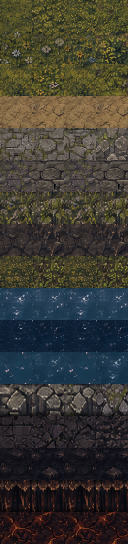
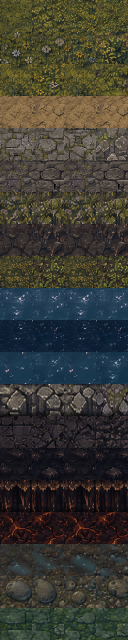
Map mechanics: A2 water level (temple wheel drains Mirror Lake into riverbed tiles from the owner's art, drowned chest + stair lore, water props); tourOpen hook for mapTour

diff --git a/src/world/mechanics/waterLevel.js b/src/world/mechanics/waterLevel.js
@@ -1,0 +1,114 @@
+// WATER LEVEL (A2 Ancient Valley) — "the valley's water obeys the old temple". A LEVER (the temple wheel, far from the water)
+// drains a BASIN (every wet tile inside a tile box): the shallows dry first, then the river, then the deep middle, turning
+// into mud, riverbed stones and sunken paving (tile types MUD / RIVERBED / SUNKEN, walkable — the owner's riverbed art).
+// What the water hid shows up: props lying on the lakebed (`finds`), a drowned chest (once per save) and the drowned stair
+// (a lore tablet). The sluice gate prop swaps closed / open. The water comes home when you leave the map (once per visit /
+// dungeon run: pull the wheel again next time); nobody can be caught by rising water inside the map.
+// ONLINE: the room host owns `drained` (netState); a guest's pull = send('pull'); guests drain their own copy of the tiles.
+//   options: { basin: [x0, y0, x1, y1], lever: [tx, ty], sluice: { at, scale }, finds: [{ prop, at, scale }],
+//              chest: { id, at, loot, gold }, stair: { at, lore }, drainTime, sign }
+import { registerMapMechanic, MapMechanic } from '../mapMechanics.js';
+import { TILE, T } from '../../core/constants.js';
+import { TAU, rand } from '../../core/math.js';
+import { Assets } from '../../core/assets.js';
+import { interact } from '../../exploration/interactables.js';
+
+const DRY = { [T.SHALLOW]: [T.MUD, 0], [T.WATER]: [T.RIVERBED, 1], [T.DEEP_WATER]: [T.SUNKEN, 2] }; // tile -> [dry tile, wave]
+
+export class WaterLevel extends MapMechanic {
+  enter() {
+    const o = this.o = { drainTime: 3, ...this.def }, w = this.world, m = w.map;
+    const [x0, y0, x1, y1] = o.basin;
+    this.cells = [];
+    for (let y = y0; y <= y1; y++) for (let x = x0; x <= x1; x++) {
+      const i = m.idx(x, y), d = DRY[m.tiles[i]];
+      if (d && w.mapManager.idAt((x + 0.5) * TILE, (y + 0.5) * TILE) === this.mapId) this.cells.push({ i, wet: m.tiles[i], dry: d[0], wave: d[1], done: false });
+    }
+    this.drained = false; this.t = 0;
+    const at = (p) => ({ x: (p[0] + 0.5) * TILE, y: (p[1] + 0.5) * TILE });
+    this.lever = { ...at(o.lever) };
+    this.items = [];
+    const add = (it) => { it.kind = 'mech'; it.mapId = this.mapId; this.items.push(it); w.interactables.push(it); return it; };
+    add({ id: 'water_lever', ...this.lever, radius: 44, prompt: 'Turn the Temple Wheel', available: () => !this.drained, use: () => this.send('pull'),
+      draw: (ctx) => this.sprite(ctx, this.drained ? 'w_lever_on' : 'w_lever_off', this.lever.x, this.lever.y, 0.55) });
+    if (o.sluice) { const s = at(o.sluice.at); add({ id: 'water_sluice', ...s, radius: 0, available: () => false, draw: (ctx) => this.sprite(ctx, this.drained ? 'w_sluice_open' : 'w_sluice_closed', s.x, s.y, o.sluice.scale || 0.6) }); }
+    if (o.chest) {
+      const c = at(o.chest.at), chest = { id: o.chest.id, kind: 'chest', ...c, radius: 34, rare: true, loot: o.chest.loot, gold: o.chest.gold };
+      add({ id: 'water_chest', ...c, radius: 38, prompt: 'Open Drowned Chest', available: () => this.drained && !w.state.chests[chest.id], use: () => interact(w, chest),
+        draw: (ctx) => { if (this.drained) this.sprite(ctx, w.state.chests[chest.id] ? 'w_chest_open' : 'w_chest_closed', c.x, c.y + 6, 0.32); } });
+    }
+    if (o.stair) {
+      const s = at(o.stair.at), tab = { kind: 'lore', lore: o.stair.lore };
+      add({ id: 'water_stair', ...s, radius: 46, prompt: 'Read the Bronze Plate', available: () => this.drained, use: () => interact(w, tab),
+        draw: (ctx) => { if (this.drained) this.sprite(ctx, 'w_temple_stairs', s.x, s.y + 30, 0.42); } });
+    }
+    this.finds = (o.finds || []).map((f) => ({ ...f, ...at(f.at) }));
+    if (!this.saved.told) this.tipT = 3;
+  }
+  exit() {
+    this.refill();
+    const mine = new Set(this.items);
+    this.world.interactables = this.world.interactables.filter((it) => !mine.has(it));
+  }
+  // checkpoint: the valley is as it was when you came in (respawn on another map rebuilds us anyway)
+  reset() { }
+
+  setTile(c, dry) {
+    const m = this.world.map;
+    m.tiles[c.i] = dry ? c.dry : c.wet;
+    c.done = dry;
+  }
+  refill() { let any = false; for (const c of this.cells) if (c.done) { this.setTile(c, false); any = true; } if (any) this.world.map.invalidate(); this.drained = false; }
+
+  tourOpen() { this.drained = true; this.t = this.o.drainTime; for (const c of this.cells) this.setTile(c, true); this.world.map.invalidate(); }
+  netEvent(kind) {
+    if (kind !== 'pull' || this.drained) return;
+    this.startDrain();
+    this.markNet();
+  }
+  startDrain() {
+    if (this.drained) return;
+    this.drained = true; this.t = 0;
+    const g = this.game;
+    g.ui.banner('THE WHEEL TURNS', 'Far to the south, water roars through an old sluice', '#9ad8ff');
+    g.audio.sfx('gate', this.lever);
+    g.camera.shake && g.camera.shake(4, 0.6);
+  }
+  update(dt) {
+    if (this.tipT > 0 && (this.tipT -= dt) <= 0) this.saved.told = true;
+    if (!this.drained) return;
+    this.t += dt;
+    const per = this.o.drainTime / 3;
+    let changed = false;
+    for (const c of this.cells) {
+      if (c.done || this.t < c.wave * per + per * 0.5 * ((c.i * 7919) % 97) / 97) continue;
+      this.setTile(c, true); changed = true;
+      if (Math.random() < 0.08) this.game.vfx.particle((c.i % this.world.map.w + 0.5) * TILE, ((c.i / this.world.map.w | 0) + 0.5) * TILE, { color: '#bfe8ff', vy: -20, life: 0.6, size: 2, add: true });
+    }
+    if (changed) this.world.map.invalidate();
+  }
+
+  // ---- online
+  netState() { return { d: this.drained ? 1 : 0 }; }
+  netApply(s) { if (s.d && !this.drained) this.startDrain(); }
+
+  // ---- drawing
+  sprite(ctx, name, x, y, scale, alpha = 1) {
+    const d = Assets.props[name];
+    if (!d) { ctx.fillStyle = '#556'; ctx.fillRect(x - 8, y - 16, 16, 16); return; }
+    const w = d.w * scale, h = d.h * scale;
+    ctx.globalAlpha = alpha;
+    ctx.drawImage(d.img, d.x, d.y, d.w, d.h, Math.round(x - w / 2), Math.round(y - h), Math.round(w), Math.round(h));
+    ctx.globalAlpha = 1;
+  }
+  drawGround(ctx, t) {
+    if (!this.drained) return;
+    const k = Math.min(1, this.t / this.o.drainTime);
+    for (const f of this.finds) this.sprite(ctx, f.prop, f.x, f.y, f.scale || 0.35, k);
+  }
+  hudTags() {
+    if (!this.drained) return [];
+    return [{ label: this.t < this.o.drainTime ? '≈ The lake is draining…' : '≈ The lake bed lies open', color: '#9ad8ff' }];
+  }
+}
+registerMapMechanic('water_level', WaterLevel);

diff --git a/tools/testkit.js b/tools/testkit.js
@@ -333,8 +333,7 @@ export function mapTour(g, classId = 'umbral_sword') {
   const unreachable = [];
   for (const def of mm.list) {
     w.changeMap(def.id, { silent: true });
-    const vaults = w.mapMech.get('rune_vaults'); // map-mechanic doors count as open here (like the flag-sealed exits)
-    if (vaults) for (const v of vaults.vaults) vaults.seal(v, false);
+    for (const mech of w.mapMech.list) mech.tourOpen(); // map-mechanic doors / water count as open here (like the flag-sealed exits)
     const m = w.map, seen = new Uint8Array(m.w * m.h), sp = m.findOpen(def.spawn[0] * TILE, def.spawn[1] * TILE, 4);
     const q = [[Math.floor(sp.x / TILE), Math.floor(sp.y / TILE)]];
     seen[q[0][1] * m.w + q[0][0]] = 1;
@@ -2359,6 +2358,52 @@ export async function darknessCheck(g, classId = 'umbral_sword') {
   ok('save / load: chamber stays solved, chest stays opened', dk && dk.solved.mine && w.state.chests.chest_hoard_mine && w.interactables.some((i) => i.id === 'chest_hoard_mine'));
   w.changeMap('lumina', { entry: w.mapManager.get('lumina').spawn });
   ok('another map: crystals + hoard chest gone', !w.interactables.some((i) => i.kind === 'mech' || i.id.startsWith('chest_hoard')));
+  const pass = R.every((r) => r[1]);
+  console.table(R.map(([step, p2, d]) => ({ step, pass: p2 ? 'PASS' : 'FAIL', detail: String(d).slice(0, 80) })));
+  return { pass, R };
+}
+
+// A2 WATER LEVEL (world/mechanics/waterLevel.js): the temple wheel drains Mirror Lake + the lower river into walkable
+// riverbed in 3 waves, the lakebed (drowned chest, drowned stair lore) becomes reachable, the water comes back on leaving,
+// nothing outside the basin / the bridge changes.
+export async function waterCheck(g, classId = 'umbral_sword') {
+  const R = [], ok = (step, pass, detail = '') => R.push([step, !!pass, detail]);
+  const { interact } = await import('../src/exploration/interactables.js');
+  const { T: TT } = await import('../src/core/constants.js');
+  g.newGame(classId);
+  const w = g.world, p = g.player;
+  p.god = true; releaseInput(g);
+  w.changeMap('a2', { entry: w.mapManager.get('a2').spawn });
+  for (const m of w.monsters) m.removed = true;
+  w.monsters = []; for (const sp of w.spawnPoints) sp.active = false;
+  const wl = w.mapMech.get('water_level'), m = w.map;
+  const open = (tx, ty) => { const x = (tx + 0.5) * TILE, y = (ty + 0.5) * TILE; return !m.isSolidAt(x, y) && w.mapManager.idAt(x, y) === 'a2'; };
+  const reach = () => { const sp = w.mapManager.get('a2').spawn.map(Math.floor), seen = new Set([sp.join()]), todo = [sp]; while (todo.length) { const [x, y] = todo.pop(); for (const [dx, dy] of [[1, 0], [-1, 0], [0, 1], [0, -1]]) { const k = `${x + dx},${y + dy}`; if (!seen.has(k) && open(x + dx, y + dy)) { seen.add(k); todo.push([x + dx, y + dy]); } } } return seen; };
+  const bridge = m.tiles.reduce((n, t) => n + (t === TT.BRIDGE ? 1 : 0), 0);
+  let s = reach();
+  ok('A2 water level: lever reachable, lakebed (chest / stair) not', wl && s.has('38,101') && !s.has('31,167') && !s.has('25,170'));
+  ok('basin = the lake + the lower river west of the bridge (300+ wet tiles)', wl.cells.length > 300, wl.cells.length);
+  const lever = w.interactables.find((i) => i.id === 'water_lever');
+  p.x = lever.x; p.y = lever.y + 20; g.simulate(0.1);
+  ok('the wheel is the nearest interactable', w.nearest === lever && /Wheel/.test(lever.promptText));
+  interact(w, lever); g.simulate(1.2);
+  const mid = wl.cells.filter((c) => c.done);
+  ok('draining in waves: shallows first, deep water last', mid.length > 0 && mid.length < wl.cells.length && !mid.some((c) => c.wave === 2), `${mid.length}/${wl.cells.length}`);
+  g.simulate(3);
+  s = reach();
+  ok('drained: mud / riverbed / sunken paving, lakebed reachable on foot', wl.cells.every((c) => c.done) && s.has('31,167') && s.has('25,170'));
+  ok('bridge untouched', m.tiles.reduce((n, t) => n + (t === TT.BRIDGE ? 1 : 0), 0) === bridge);
+  ok('lever used: no second pull', !w.interactables.find((i) => i.id === 'water_lever' && i.available()));
+  const chestIt = w.interactables.find((i) => i.id === 'water_chest'), gold = p.gold;
+  p.x = chestIt.x; p.y = chestIt.y + 18; g.simulate(0.1); interact(w, chestIt);
+  ok('drowned chest pays (once)', p.gold >= gold + 400 && w.state.chests.chest_mirror_lake && !chestIt.available(), `${gold} -> ${p.gold}`);
+  const stair = w.interactables.find((i) => i.id === 'water_stair'); interact(w, stair); g.ui.panels.close(true); // an open window pauses the world
+  ok('drowned stair = lore found', w.state.lore.drowned_hall);
+  w.changeMap('lumina', { entry: w.mapManager.get('lumina').spawn });
+  w.changeMap('a2', { entry: w.mapManager.get('a2').spawn });
+  const wl2 = w.mapMech.get('water_level');
+  ok('leave + come back: the lake is full again, chest stays opened', !wl2.drained && wl2.cells.every((c) => !c.done && m.tiles[c.i] === c.wet) && !reach().has('31,167') && w.state.chests.chest_mirror_lake);
+  ok('online: netState / netApply drain a guest copy', JSON.stringify(wl2.netState()) === '{"d":0}' && (wl2.netApply({ d: 1 }), g.simulate(4), wl2.cells.every((c) => c.done)));
   const pass = R.every((r) => r[1]);
   console.table(R.map(([step, p2, d]) => ({ step, pass: p2 ? 'PASS' : 'FAIL', detail: String(d).slice(0, 80) })));
   return { pass, R };

diff --git a/tools/extract-props.js b/tools/extract-props.js
@@ -22,15 +22,27 @@ const B1P = '../B/B1/image-53b4c9a1-506f-42b5-904f-7281d8bc5b1f-0';
 const B2P = '../B/B2/image-b4a161fc-56d2-45fc-9b60-7300aa39c577-0';
 const B3P = '../B/B3/image-e8e42a4f-cf0e-4610-8207-6e224b047dca-0';
 const DRP = '../A/a2/SC/DRAGON/image-1e3f0fef-1571-4868-b296-d7673ea2e55d-0'; // A2 secret lair (Varkharon): near-black sheet
-const SCALE = { [DRP]: 0.5, [A2P]: 0.5, [A3P]: 0.5, [B1P]: 0.5, [B2P]: 0.5, [B3P]: 0.5 }; // the city sheet (CP) stays full size: its buildings are drawn large
+// A2 water-level art (world/mechanics/waterLevel.js): props of the drained river (1254 px sheet) + the waterfall in 3 states (1024 px)
+const WP = '../A/a2/water/image-fb49acbd-d88c-4dc3-a28d-d133e8bc77e3-0';
+const WF = '../A/a2/water/image-d226c3dd-a2f5-45df-83a3-59d131251238-0';
+const SCALE = { [WP]: 0.8, [WF]: 0.62, [DRP]: 0.5, [A2P]: 0.5, [A3P]: 0.5, [B1P]: 0.5, [B2P]: 0.5, [B3P]: 0.5 }; // the city sheet (CP) stays full size: its buildings are drawn large
 // sheets whose background is not the navy of the old sets: their own background test. `fillHoles` = box mode keeps
 // background-coloured pixels enclosed by the prop (dark grey stone inside the city buildings)
 const GREY_BG = (r, g, b) => { const l = (r + g + b) / 3; return l >= 24 && l <= 58 && Math.max(r, g, b) - Math.min(r, g, b) <= 8; };
 const NAVY_DEEP = (r, g, b) => r <= 20 && g >= 20 && g <= 42 && b >= 46 && b <= 66 && b - g >= 14;
 const NEAR_BLACK = (r, g, b) => Math.max(r, g, b) <= 15 && b >= r;
-const SHEET_BG = { [CP]: GREY_BG, [B3P]: NAVY_DEEP, [DRP]: NEAR_BLACK };
-const FILL_HOLES = new Set([CP, DRP]);
+const WATER_NAVY = (r, g, b) => r <= 26 && g >= 12 && g <= 38 && b >= 36 && b <= 62 && b - g >= 18; // A2 water sheets (6,20,45 / 16,27,51)
+const SHEET_BG = { [CP]: GREY_BG, [B3P]: NAVY_DEEP, [DRP]: NEAR_BLACK, [WP]: WATER_NAVY, [WF]: WATER_NAVY };
+const FILL_HOLES = new Set([CP, DRP, WP, WF]);
 const MANIFEST = {
+  w_sluice_closed: [WP, 30, 40, 450, 362], w_sluice_open: [WP, 470, 40, 872, 362],
+  w_lever_off: [WP, 895, 112, 1032, 352], w_lever_on: [WP, 1072, 112, 1212, 352],
+  w_statue_a: [WP, 30, 408, 462, 592], w_statue_b: [WP, 502, 408, 832, 588], w_statue_c: [WP, 858, 408, 1232, 592],
+  w_chest_closed: [WP, 42, 618, 348, 802], w_chest_open: [WP, 376, 618, 642, 802],
+  w_fish_a: [WP, 736, 652, 928, 728], w_driftwood: [WP, 972, 628, 1218, 732], w_fish_b: [WP, 736, 772, 922, 862], w_reeds: [WP, 1006, 762, 1204, 908],
+  w_temple_stairs: [WP, 38, 838, 612, 1208],
+  w_shells_a: [WP, 638, 992, 802, 1098], w_shells_b: [WP, 832, 988, 992, 1098], w_shells_c: [WP, 1036, 988, 1184, 1098],
+  w_fall_full: [WF, 22, 150, 342, 872], w_fall_thin: [WF, 356, 150, 668, 872], w_fall_dry: [WF, 682, 150, 994, 872],
   // ---- A2 secret lair: the Cinder Throne (Varkharon). Boxes in the sheet's pixels; 'dr_*'
   dr_door: [DRP, 1128, 0, 1952, 628],
   dr_fence_post: [DRP, 30, 985, 95, 1100], dr_wall_a: [DRP, 118, 980, 300, 1100], dr_wall_spiked: [DRP, 325, 995, 615, 1110], dr_fence_iron: [DRP, 645, 985, 820, 1110],

diff --git a/src/maps/fieldA2.js b/src/maps/fieldA2.js
@@ -30,9 +30,23 @@ export const FIELD_A2 = {
   requires: [{ type: 'boss_defeated', boss: 'boss_a1', label: 'Defeat the Guardian of the Forest (A1 Boss)' }],
   hiddenAreas: [],
   region: { zones: [Z.ANCIENT, Z.EMBER] }, // EMBER = the Quiet Hollow (ash lair, own zone tint + banner)
+  // WATER LEVEL (world/mechanics/waterLevel.js): the wheel in the Sunken Temple drains Mirror Lake + the river west of the
+  // south bridge (once per visit); the lakebed holds a drowned chest, the drowned stair (lore) and the things the lake kept
+  mechanics: [{
+    type: 'water_level', basin: [15, 158, 62, 180], lever: [38, 101], sluice: { at: [60, 174], scale: 0.6 },
+    chest: { id: 'chest_mirror_lake', at: [31, 167], loot: [{ item: 'relic_ember_war', count: 1 }, { item: 'hp_potion', count: 3 }], gold: 400 },
+    stair: { at: [25, 170], lore: 'drowned_hall' },
+    finds: [
+      { prop: 'w_statue_a', at: [44, 174], scale: 0.3 }, { prop: 'w_statue_c', at: [36, 164], scale: 0.28 },
+      { prop: 'w_fish_a', at: [30, 173] }, { prop: 'w_fish_b', at: [49, 173] }, { prop: 'w_driftwood', at: [53, 172] },
+      { prop: 'w_reeds', at: [24, 164] }, { prop: 'w_shells_a', at: [28, 172] }, { prop: 'w_shells_b', at: [39, 168] }, { prop: 'w_shells_c', at: [47, 171] },
+    ],
+  }],
   spawn: [84.5, 192],
   content: {
     interactables: [
+      { id: 'a2_lake_sign', kind: 'sign', tx: 42, ty: 161, prompt: 'Read Weathered Sign', title: 'Mirror Lake',
+        text: '"The priests\' Lower Hall lies under this water. They let the lake in from the temple above —\nand only the temple wheel can send it away again."' },
       { id: 'a2_gate_plaque', kind: 'sign', tx: 88, ty: 191, prompt: 'Read Plaque', title: 'Valley Gate', text: PLAQUE },
       { id: 'ws_a2_gate', kind: 'waystone', tx: 79, ty: 194, name: 'Valley Gate', prompt: 'Waystone' },
       // QUIET HOLLOW (secret lair): the rumour gargoyle + the sealed dragon door (generic `sealDoor`: item -> flag)

diff --git a/tools/build-tiles.js b/tools/build-tiles.js
@@ -22,6 +22,8 @@ const B3 = 'desgin/Map/B/B3/image-9f857ead-dee4-45da-90c6-536a066b2a3b-0';
 const B2 = 'desgin/Map/B/B2/image-76690731-d973-441f-ba7f-1b03cda9b3eb-0';
 const DRT = 'desgin/Map/A/a2/SC/DRAGON/image-097bd277-76c5-4f9d-af5e-906c6ea9c94d-0'; // A2 secret lair tileset (Varkharon)
 const B1 = 'desgin/Map/B/B1/image-4e5b0ee7-22d6-4f86-96e0-1b8e9df7ebb6-0';
+const DRY = 'desgin/Map/A/a2/water/image-dd5a659d-c838-4602-a2fe-532a18d37a0b-0'; // A2 drained riverbed tileset (4 cards / row)
+const DRY_ROW = (y0) => [177, 477, 776, 1076].map((cx) => [cx - 88, y0 + 4, cx + 88, y0 + 180]);
 
 // skin -> sheet + rows. Each row: [name, region [x0, y0, x1, y1] (sheet px), picks (card indices in reading order)]
 //   a pick may also be a card box [x0, y0, x1, y1] (sheets whose cards touch: no gap to find them by); region null then
@@ -50,6 +52,10 @@ const SKINS = {
       ['CAVE_WALL', null, [[184, 1280, 302, 1398], [184, 1422, 302, 1538], [184, 1280, 302, 1398], [184, 1422, 302, 1538]], { src: DRT }],
       ['face:cave', null, [[1652, 797, 1738, 846], [1540, 797, 1625, 846], [1652, 797, 1738, 846], [1540, 797, 1625, 846]], { src: DRT }],
       ['CORRUPT', null, [[320, 1280, 433, 1398], [320, 1422, 433, 1538], [320, 1280, 433, 1398], [320, 1422, 433, 1538]], { src: DRT }],
+      // the drained river (world/mechanics/waterLevel.js), owner's riverbed sheet: cards ~253 x 186, square boxes from the middle
+      ['MUD', null, DRY_ROW(22), { src: DRY }],
+      ['RIVERBED', null, DRY_ROW(435), { src: DRY }],
+      ['SUNKEN', null, DRY_ROW(1048), { src: DRY }],
     ],
   },
   // A3 RUNE CITADEL (owner's sheet desgin/Map/A/a3): dark stone + bronze gold, grid cards ~72 px

diff --git a/src/world/narrative.js b/src/world/narrative.js
@@ -20,6 +20,10 @@ export const LORE = {
     title: 'Statue Inscription — Ancient Forest Path',
     text: '"Here begins the Warden’s Road. Let none who carry darkness pass the Gate, for the Guardian remembers every blade."',
   },
+  drowned_hall: { // A2 Mirror Lake lakebed (world/mechanics/waterLevel.js), readable only while the lake is drained
+    title: 'Drowned Stair — The Lower Hall',
+    text: 'Steps cut into the lakebed fall away into a flooded hall. A bronze plate, green with age, still reads:\n\n"When the river rose, we closed the Hall and let the lake keep it. Whoever turns the temple wheel again: take what we left, and let the water come home."',
+  },
   cave_mural: {
     title: 'Cave Mural — The Warden’s Weakness',
     text: 'A mural of a great antlered beast. Its chest holds a crystal heart. In the next panel, the beast crashes into a stone wall and kneels — the heart blazing, open.\n\n[Monster Knowledge] Guardian of the Forest: Weakness & Pattern revealed.',

diff --git a/src/maps/tiles.js b/src/maps/tiles.js
@@ -248,6 +248,9 @@ export function buildTileset() {
   add(T.SCORCHED, (s) => stones(PAL.scorched, s, 11, { crack: true }));
   add(T.LAVA, (s) => lavaFn(s));
   add(T.ICE, (s) => stones(PAL.ice, s, 20, { crack: true }));
+  add(T.MUD, (s) => grassLike(['#3e3022', '#4a3a28', '#5a4832', '#2c2218'], s));
+  add(T.RIVERBED, (s) => stones(['#4a4238', '#5a5246', '#6e665a', '#36302a'], s, 14));
+  add(T.SUNKEN, (s) => stones(['#3a4a38', '#465a44', '#5a6e56', '#2a3628'], s, 9));
 
   // alternative palettes used by world state (corrupted canopy / restored forest)
   const alt = {};
@@ -321,4 +324,5 @@ export const EDGE_PRIORITY = {
   [T.CORRUPT]: 7, [T.FOREST_FLOOR]: 6, [T.GRASS]: 6, [T.FLOWERS]: 6, [T.VALLEY]: 6,
   [T.MOSS_STONE]: 5, [T.SAND]: 4, [T.DIRT]: 3, [T.CAVE]: 3,
   [T.COBBLE]: 2, [T.RUIN]: 2, [T.ARENA]: 1, [T.SHALLOW]: 1, [T.SCORCHED]: 2, [T.ICE]: 1,
+  [T.MUD]: 2, [T.RIVERBED]: 1, [T.SUNKEN]: 1,
 };

diff --git a/src/ui/hud.js b/src/ui/hud.js
@@ -26,7 +26,7 @@ const MINI_COLORS = {
   [T.RUIN]: '#4f5664', [T.MOSS_STONE]: '#44574a', [T.ARENA]: '#5a6476', [T.WATER]: '#215a80', [T.DEEP_WATER]: '#133452',
   [T.SHALLOW]: '#357a8c', [T.BRIDGE]: '#9a7550', [T.SAND]: '#7b7050', [T.CORRUPT]: '#3a2450', [T.CAVE]: '#3a3149',
   [T.VALLEY]: '#6a8a48', [T.CANOPY]: '#10201a', [T.CLIFF]: '#2a2a30', [T.RUIN_WALL]: '#22252e', [T.CAVE_WALL]: '#16121e',
-  [T.BUILDING]: '#8a5a3a', [T.STAIRS]: '#5e6676', [T.VOID]: '#05040a', [T.SCORCHED]: '#3a302a', [T.LAVA]: '#e8601a',
+  [T.BUILDING]: '#8a5a3a', [T.STAIRS]: '#5e6676', [T.VOID]: '#05040a', [T.SCORCHED]: '#3a302a', [T.LAVA]: '#e8601a', [T.MUD]: '#4a3a28', [T.RIVERBED]: '#5a5246', [T.SUNKEN]: '#465a44',
 };
 
 

diff --git a/src/core/constants.js b/src/core/constants.js
@@ -31,6 +31,9 @@ export const T = {
   SCORCHED: 23, // walkable burnt / cracked earth (A2 caldera rim)
   LAVA: 24, // molten rock: solid like deep water (shots fly over it), glows
   ICE: 25, // B1 frozen lake / river: walkable ice
+  MUD: 26,      // A2 drained river (world/mechanics/waterLevel.js): wet mud, walkable
+  RIVERBED: 27, // A2 drained river: stones of the old riverbed, walkable
+  SUNKEN: 28,   // A2 drained river: algae-covered ancient paving revealed under the water, walkable
 };
 
 // Which tiles block movement

diff --git a/src/world/mechanics/runeVaults.js b/src/world/mechanics/runeVaults.js
@@ -38,6 +38,7 @@ export class RuneVaults extends MapMechanic {
   }
   reset() { if (!this.authority) return; for (const v of this.vaults) { v.openT = 0; for (const s of v.sw) s.t = 0; this.seal(v, true); } this.markNet(); }
 
+  tourOpen() { for (const v of this.vaults) this.seal(v, false); }
   // the doorway's tiles blocked (closed) or free (open) — counted blockers, so other systems' blocks stay
   seal(v, on) {
     if (v.sealed === on) return;

diff --git a/src/world/mapMechanics.js b/src/world/mapMechanics.js
@@ -36,6 +36,7 @@ export class MapMechanic {
   enter() {} exit() {} update() {} reset() {}
   drawGround() {} drawAbove() {} drawScreen() {}
   hudTags() { return []; }
+  tourOpen() {} // dev / tests (T.mapTour): open everything the mechanic can open, at once (doors, drained water)
   netState() { return null; }
   netApply() {}
   netEvent() {}

diff --git a/src/world/mechanics/index.js b/src/world/mechanics/index.js
@@ -4,4 +4,5 @@ import './blizzard.js';   // B1 Frostwind Plains
 import './altitude.js';   // B3 Frostpeak
 import './runeVaults.js'; // A3 Rune Citadel
 import './darkness.js';   // B2 Crystal Caverns
+import './waterLevel.js'; // A2 Ancient Valley
 export { MAP_MECHANICS, registerMapMechanic, MapMechanic } from '../mapMechanics.js';
